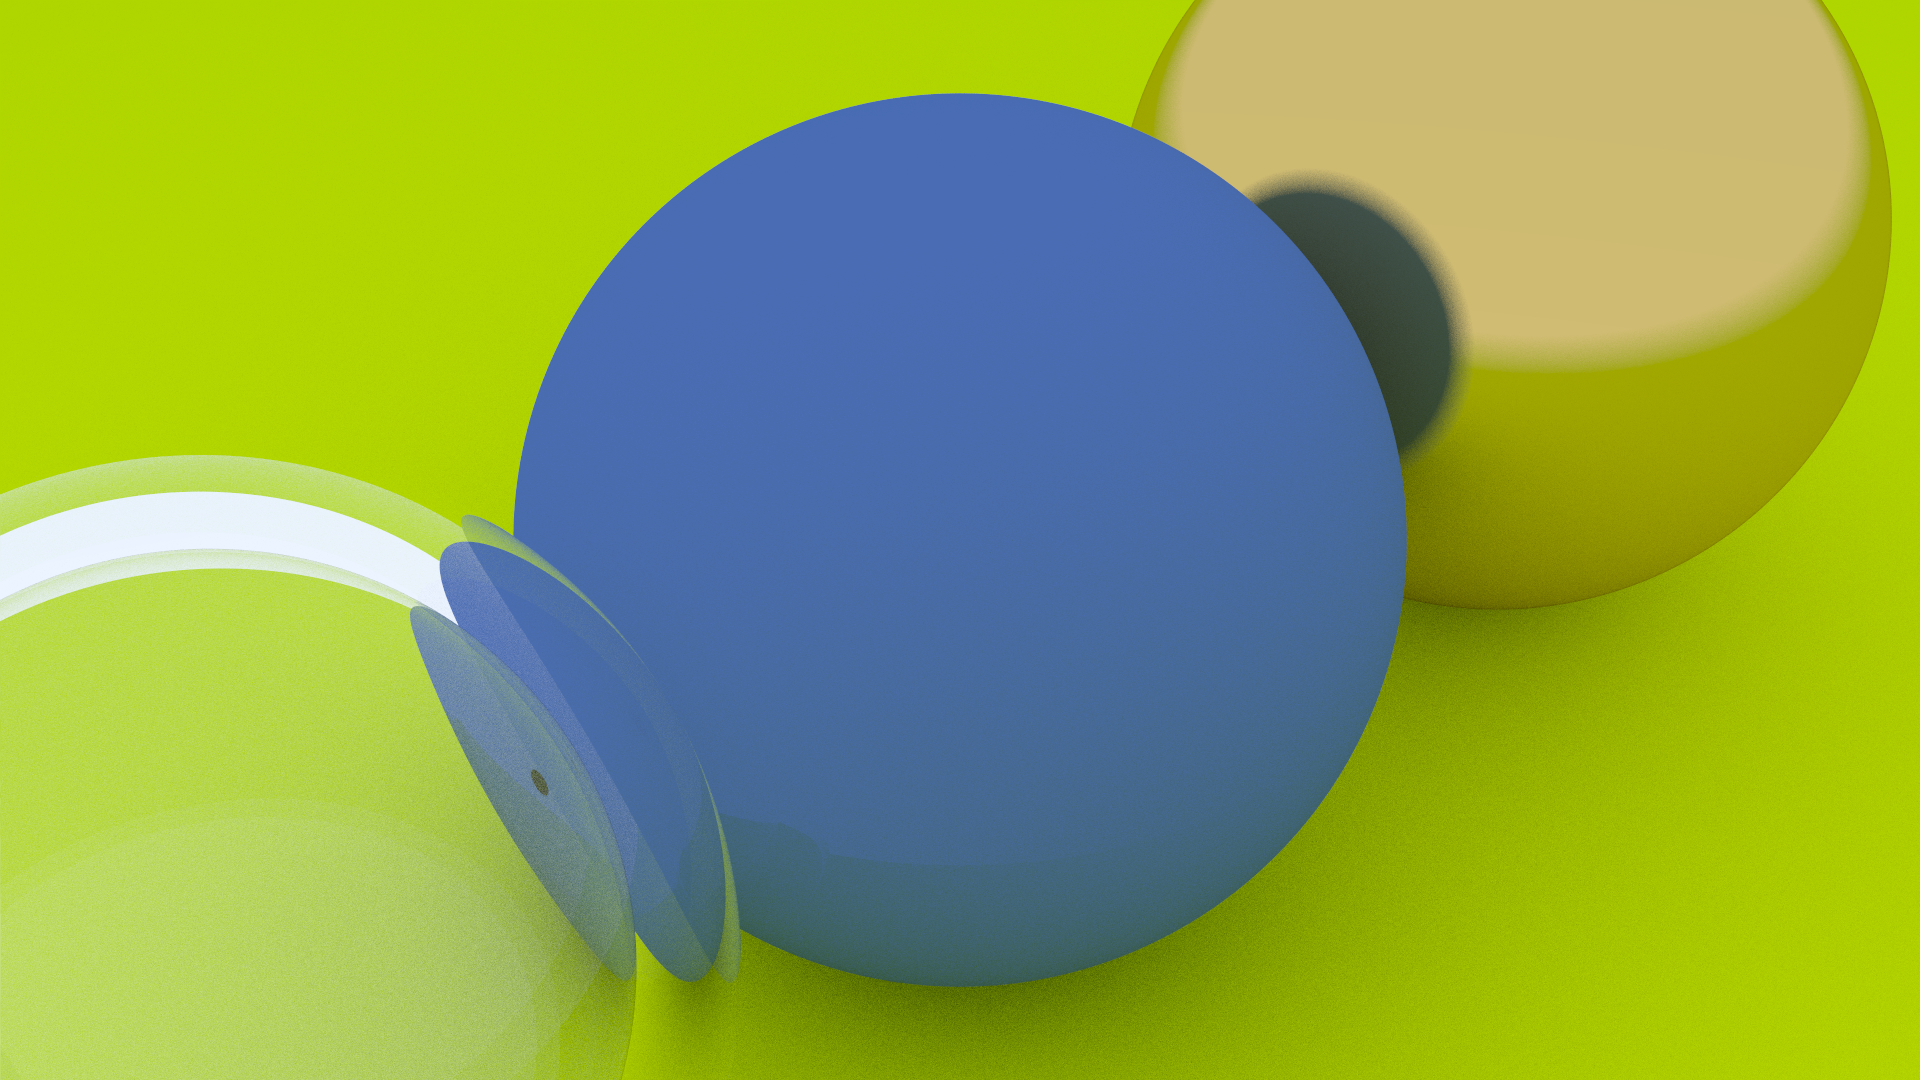
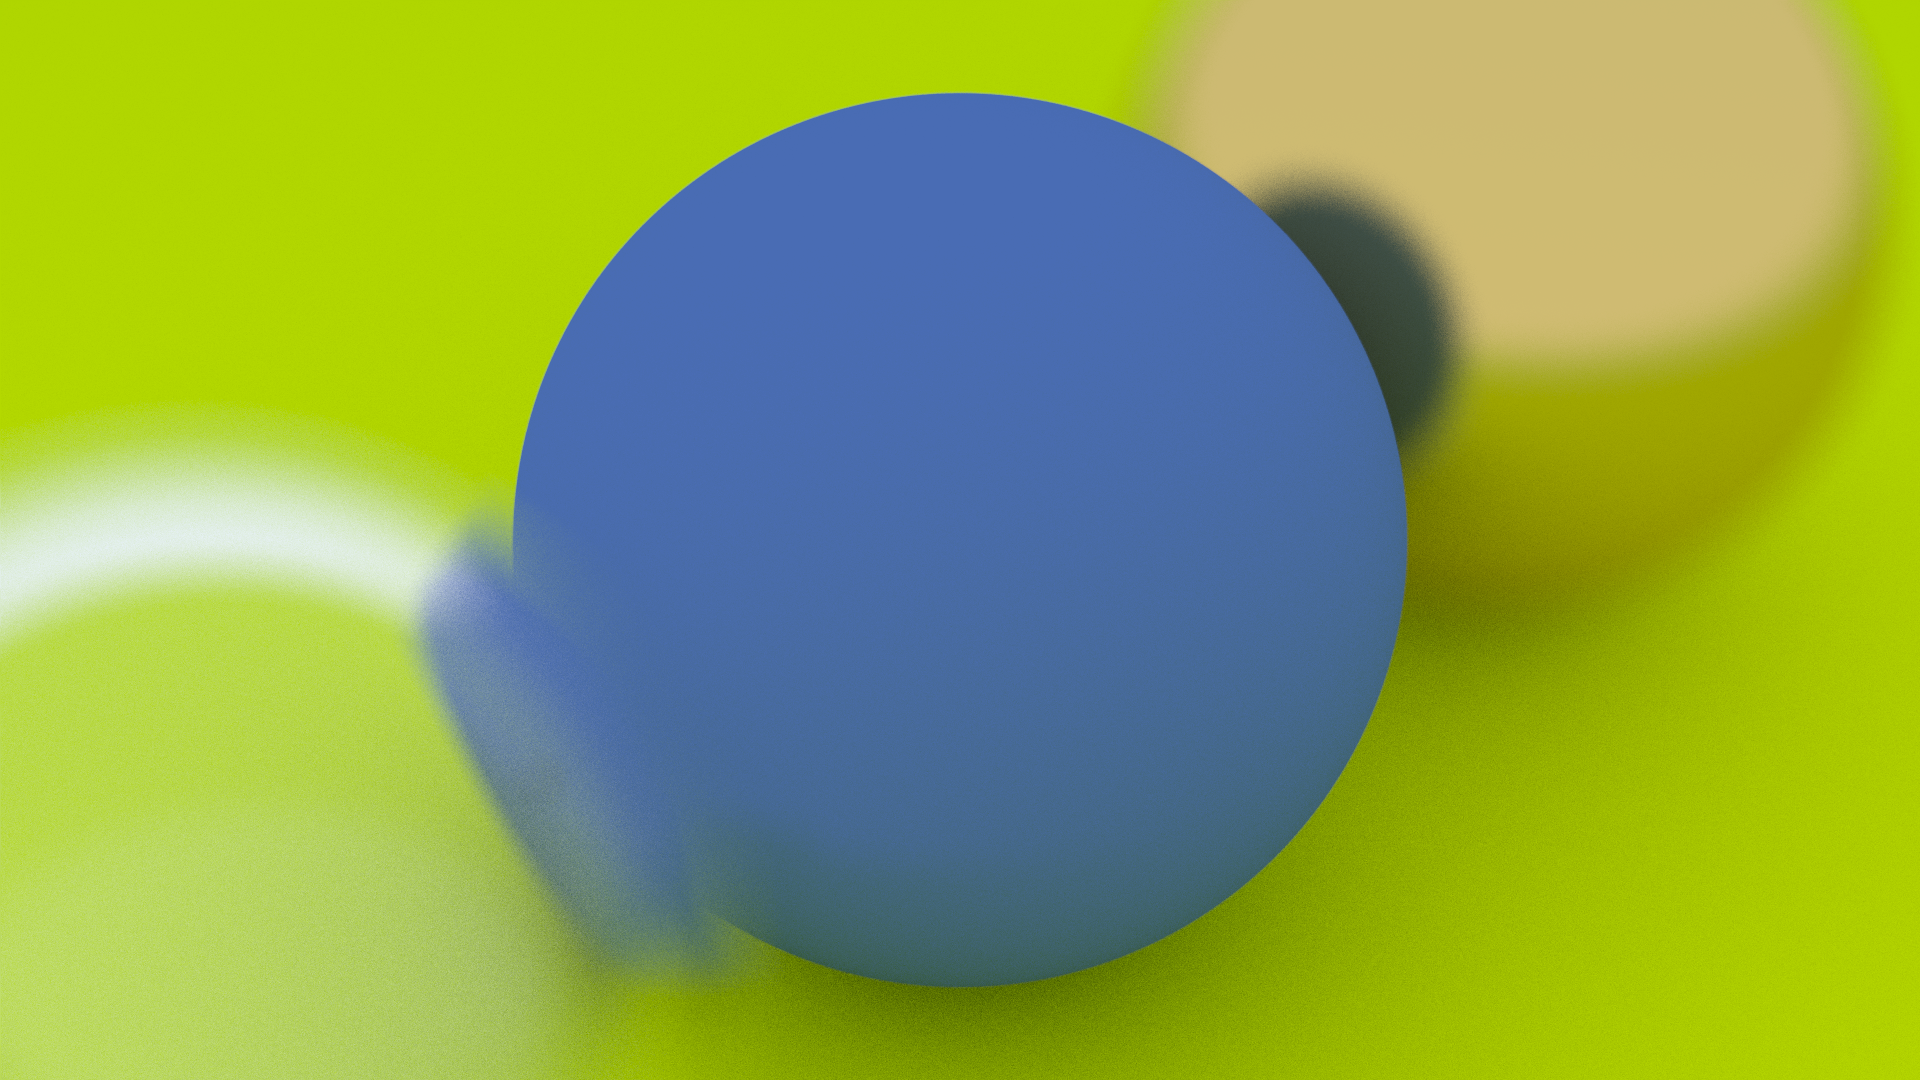
dof working

diff --git a/vexray/src/renderer/config.rs b/vexray/src/renderer/config.rs
@@ -9,6 +9,9 @@ pub struct Image {
 #[derive(Debug, encase::ShaderType)]
 pub struct Camera {
     center: glam::Vec3,
+    defocus_angle: f32,
+    defocus_disk_u: glam::Vec3,
+    defocus_disk_v: glam::Vec3
 }
 
 #[derive(Debug, encase::ShaderType)]
@@ -42,16 +45,16 @@ pub struct CameraConfig {
     pub look_at: glam::Vec3,
     pub v_up: glam::Vec3,
     pub v_fov: f32,
+    pub defocus_angle: f32,
+    pub focus_distance: f32
 }
 
 impl KernelConfig {
     /// A lot of camera calculations
     pub fn new(render_config: RenderConfig, camera_config: CameraConfig) -> Self {
-        let focal_length = (camera_config.look_from - camera_config.look_at).length();
-
         // Determine viewport dimensions.
         let h = (camera_config.v_fov.to_radians() / 2.0).tan(); // 90 deg this equation = 1.0
-        let viewport_height = 2.0 * h * focal_length;
+        let viewport_height = 2.0 * h * camera_config.focus_distance;
         let viewport_width =
             viewport_height * (render_config.width as f32 / render_config.height as f32);
 
@@ -70,10 +73,15 @@ impl KernelConfig {
 
         // Calculate the location of the upper left pixel.
         let upper_left = camera_config.look_from
-            - (focal_length * w) 
+            - (camera_config.focus_distance * w) 
             - (viewport_u / 2.0) 
             - (viewport_v / 2.0);
         let pixel_zero_loc = upper_left + 0.5 * (delta_u + delta_v);
+
+        // Calculate the camera defocus disk basis vectors.
+        let defocus_radius = camera_config.focus_distance * (camera_config.defocus_angle / 2.0).to_radians().tan();
+        let defocus_disk_u = u * defocus_radius;
+        let defocus_disk_v = v * defocus_radius;
 
         let image = Image {
             width: render_config.width,
@@ -84,6 +92,9 @@ impl KernelConfig {
 
         let camera = Camera {
             center: camera_config.look_from,
+            defocus_angle: camera_config.defocus_angle,
+            defocus_disk_u,
+            defocus_disk_v
         };
 
         let viewport = Viewport {

diff --git a/vexray/src/lib.rs b/vexray/src/lib.rs
@@ -29,6 +29,8 @@ pub async fn run() {
         look_at: glam::vec3(0.0, 0.0, -1.0),
         v_up: glam::vec3(0.0, 1.0, 0.0),
         v_fov: 20.0,
+        defocus_angle: 10.0,
+        focus_distance: 3.4
     };
     let config = KernelConfig::new(render_config, camera_config);
 
